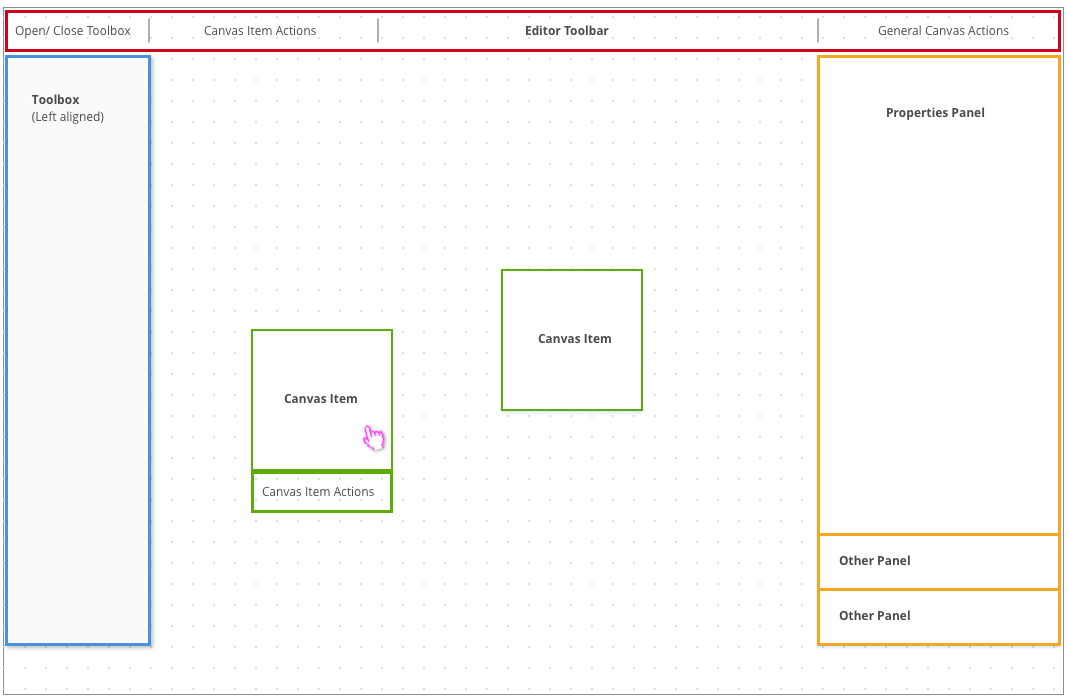
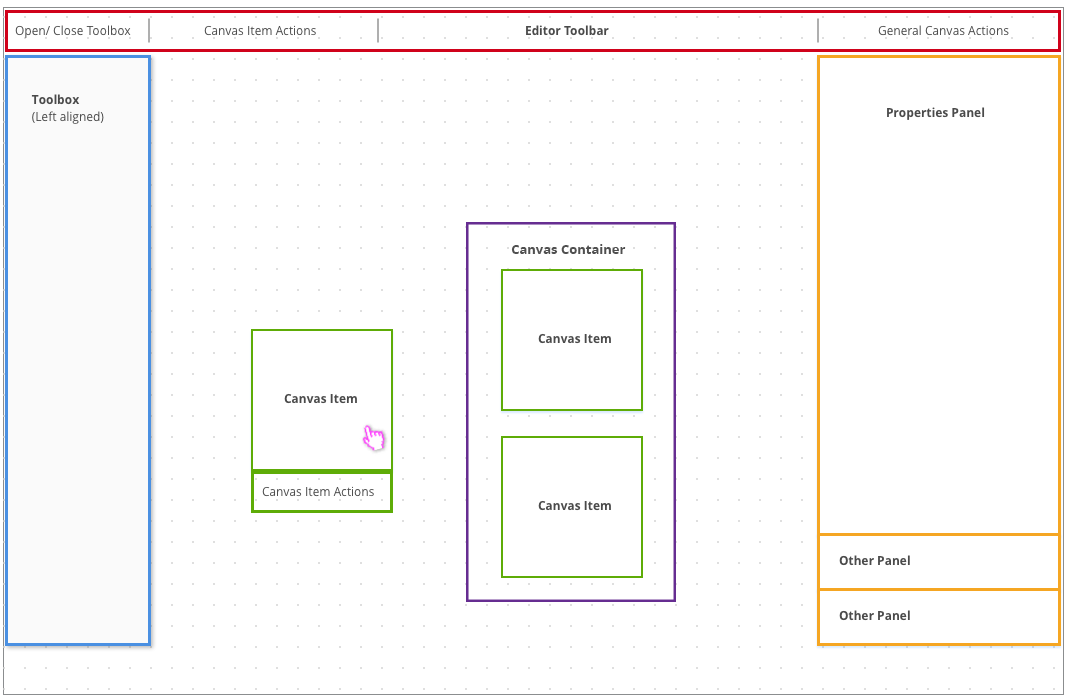
Added files from commit #2734064700304fefe0f37ea18a36ef08186b33bc

Changed region(s): [[0.4326, 0.3013, 0.618, 0.3615], [0.4326, 0.8135, 0.6489, 0.8737], [0.4944, 0.7231, 0.5871, 0.7532]]

diff --git a/components/bootstrap-datepicker/dist/js/bootstrap-datepicker.min.js b/components/bootstrap-datepicker/dist/js/bootstrap-datepicker.min.js
@@ -1,8 +1,8 @@
 /*!
- * Datepicker for Bootstrap v1.7.0 (https://github.com/uxsolutions/bootstrap-datepicker)
+ * Datepicker for Bootstrap v1.7.1 (https://github.com/uxsolutions/bootstrap-datepicker)
  *
  * Licensed under the Apache License v2.0 (http://www.apache.org/licenses/LICENSE-2.0)
  */
 
 !function(a){"function"==typeof define&&define.amd?define(["jquery"],a):a("object"==typeof exports?require("jquery"):jQuery)}(function(a,b){function c(){return new Date(Date.UTC.apply(Date,arguments))}function d(){var a=new Date;return c(a.getFullYear(),a.getMonth(),a.getDate())}function e(a,b){return a.getUTCFullYear()===b.getUTCFullYear()&&a.getUTCMonth()===b.getUTCMonth()&&a.getUTCDate()===b.getUTCDate()}function f(c,d){return function(){return d!==b&&a.fn.datepicker.deprecated(d),this[c].apply(this,arguments)}}function g(a){return a&&!isNaN(a.getTime())}function h(b,c){function d(a,b){return b.toLowerCase()}var e,f=a(b).data(),g={},h=new RegExp("^"+c.toLowerCase()+"([A-Z])");c=new RegExp("^"+c.toLowerCase());for(var i in f)c.test(i)&&(e=i.replace(h,d),g[e]=f[i]);return g}function i(b){var c={};if(q[b]||(b=b.split("-")[0],q[b])){var d=q[b];return a.each(p,function(a,b){b in d&&(c[b]=d[b])}),c}}var j=function(){var b={get:function(a){return this.slice(a)[0]},contains:function(a){for(var b=a&&a.valueOf(),c=0,d=this.length;c<d;c++)if(0<=this[c].valueOf()-b&&this[c].valueOf()-b<864e5)return c;return-1},remove:function(a){this.splice(a,1)},replace:function(b){b&&(a.isArray(b)||(b=[b]),this.clear(),this.push.apply(this,b))},clear:function(){this.length=0},copy:function(){var a=new j;return a.replace(this),a}};return function(){var c=[];return c.push.apply(c,arguments),a.extend(c,b),c}}(),k=function(b,c){a.data(b,"datepicker",this),this._process_options(c),this.dates=new j,this.viewDate=this.o.defaultViewDate,this.focusDate=null,this.element=a(b),this.isInput=this.element.is("input"),this.inputField=this.isInput?this.element:this.element.find("input"),this.component=!!this.element.hasClass("date")&&this.element.find(".add-on, .input-group-addon, .btn"),this.component&&0===this.component.length&&(this.component=!1),this.isInline=!this.component&&this.element.is("div"),this.picker=a(r.template),this._check_template(this.o.templates.leftArrow)&&this.picker.find(".prev").html(this.o.templates.leftArrow),this._check_template(this.o.templates.rightArrow)&&this.picker.find(".next").html(this.o.templates.rightArrow),this._buildEvents(),this._attachEvents(),this.isInline?this.picker.addClass("datepicker-inline").appendTo(this.element):this.picker.addClass("datepicker-dropdown dropdown-menu"),this.o.rtl&&this.picker.addClass("datepicker-rtl"),this.o.calendarWeeks&&this.picker.find(".datepicker-days .datepicker-switch, thead .datepicker-title, tfoot .today, tfoot .clear").attr("colspan",function(a,b){return Number(b)+1}),this._process_options({startDate:this._o.startDate,endDate:this._o.endDate,daysOfWeekDisabled:this.o.daysOfWeekDisabled,daysOfWeekHighlighted:this.o.daysOfWeekHighlighted,datesDisabled:this.o.datesDisabled}),this._allow_update=!1,this.setViewMode(this.o.startView),this._allow_update=!0,this.fillDow(),this.fillMonths(),this.update(),this.isInline&&this.show()};k.prototype={constructor:k,_resolveViewName:function(b){return a.each(r.viewModes,function(c,d){if(b===c||a.inArray(b,d.names)!==-1)return b=c,!1}),b},_resolveDaysOfWeek:function(b){return a.isArray(b)||(b=b.split(/[,\s]*/)),a.map(b,Number)},_check_template:function(c){try{if(c===b||""===c)return!1;if((c.match(/[<>]/g)||[]).length<=0)return!0;var d=a(c);return d.length>0}catch(a){return!1}},_process_options:function(b){this._o=a.extend({},this._o,b);var e=this.o=a.extend({},this._o),f=e.language;q[f]||(f=f.split("-")[0],q[f]||(f=o.language)),e.language=f,e.startView=this._resolveViewName(e.startView),e.minViewMode=this._resolveViewName(e.minViewMode),e.maxViewMode=this._resolveViewName(e.maxViewMode),e.startView=Math.max(this.o.minViewMode,Math.min(this.o.maxViewMode,e.startView)),e.multidate!==!0&&(e.multidate=Number(e.multidate)||!1,e.multidate!==!1&&(e.multidate=Math.max(0,e.multidate))),e.multidateSeparator=String(e.multidateSeparator),e.weekStart%=7,e.weekEnd=(e.weekStart+6)%7;var g=r.parseFormat(e.format);e.startDate!==-(1/0)&&(e.startDate?e.startDate instanceof Date?e.startDate=this._local_to_utc(this._zero_time(e.startDate)):e.startDate=r.parseDate(e.startDate,g,e.language,e.assumeNearbyYear):e.startDate=-(1/0)),e.endDate!==1/0&&(e.endDate?e.endDate instanceof Date?e.endDate=this._local_to_utc(this._zero_time(e.endDate)):e.endDate=r.parseDate(e.endDate,g,e.language,e.assumeNearbyYear):e.endDate=1/0),e.daysOfWeekDisabled=this._resolveDaysOfWeek(e.daysOfWeekDisabled||[]),e.daysOfWeekHighlighted=this._resolveDaysOfWeek(e.daysOfWeekHighlighted||[]),e.datesDisabled=e.datesDisabled||[],a.isArray(e.datesDisabled)||(e.datesDisabled=e.datesDisabled.split(",")),e.datesDisabled=a.map(e.datesDisabled,function(a){return r.parseDate(a,g,e.language,e.assumeNearbyYear)});var h=String(e.orientation).toLowerCase().split(/\s+/g),i=e.orientation.toLowerCase();if(h=a.grep(h,function(a){return/^auto|left|right|top|bottom$/.test(a)}),e.orientation={x:"auto",y:"auto"},i&&"auto"!==i)if(1===h.length)switch(h[0]){case"top":case"bottom":e.orientation.y=h[0];break;case"left":case"right":e.orientation.x=h[0]}else i=a.grep(h,function(a){return/^left|right$/.test(a)}),e.orientation.x=i[0]||"auto",i=a.grep(h,function(a){return/^top|bottom$/.test(a)}),e.orientation.y=i[0]||"auto";else;if(e.defaultViewDate instanceof Date||"string"==typeof e.defaultViewDate)e.defaultViewDate=r.parseDate(e.defaultViewDate,g,e.language,e.assumeNearbyYear);else if(e.defaultViewDate){var j=e.defaultViewDate.year||(new Date).getFullYear(),k=e.defaultViewDate.month||0,l=e.defaultViewDate.day||1;e.defaultViewDate=c(j,k,l)}else e.defaultViewDate=d()},_events:[],_secondaryEvents:[],_applyEvents:function(a){for(var c,d,e,f=0;f<a.length;f++)c=a[f][0],2===a[f].length?(d=b,e=a[f][1]):3===a[f].length&&(d=a[f][1],e=a[f][2]),c.on(e,d)},_unapplyEvents:function(a){for(var c,d,e,f=0;f<a.length;f++)c=a[f][0],2===a[f].length?(e=b,d=a[f][1]):3===a[f].length&&(e=a[f][1],d=a[f][2]),c.off(d,e)},_buildEvents:function(){var b={keyup:a.proxy(function(b){a.inArray(b.keyCode,[27,37,39,38,40,32,13,9])===-1&&this.update()},this),keydown:a.proxy(this.keydown,this),paste:a.proxy(this.paste,this)};this.o.showOnFocus===!0&&(b.focus=a.proxy(this.show,this)),this.isInput?this._events=[[this.element,b]]:this.component&&this.inputField.length?this._events=[[this.inputField,b],[this.component,{click:a.proxy(this.show,this)}]]:this._events=[[this.element,{click:a.proxy(this.show,this),keydown:a.proxy(this.keydown,this)}]],this._events.push([this.element,"*",{blur:a.proxy(function(a){this._focused_from=a.target},this)}],[this.element,{blur:a.proxy(function(a){this._focused_from=a.target},this)}]),this.o.immediateUpdates&&this._events.push([this.element,{"changeYear changeMonth":a.proxy(function(a){this.update(a.date)},this)}]),this._secondaryEvents=[[this.picker,{click:a.proxy(this.click,this)}],[this.picker,".prev, .next",{click:a.proxy(this.navArrowsClick,this)}],[this.picker,".day:not(.disabled)",{click:a.proxy(this.dayCellClick,this)}],[a(window),{resize:a.proxy(this.place,this)}],[a(document),{"mousedown touchstart":a.proxy(function(a){this.element.is(a.target)||this.element.find(a.target).length||this.picker.is(a.target)||this.picker.find(a.target).length||this.isInline||this.hide()},this)}]]},_attachEvents:function(){this._detachEvents(),this._applyEvents(this._events)},_detachEvents:function(){this._unapplyEvents(this._events)},_attachSecondaryEvents:function(){this._detachSecondaryEvents(),this._applyEvents(this._secondaryEvents)},_detachSecondaryEvents:function(){this._unapplyEvents(this._secondaryEvents)},_trigger:function(b,c){var d=c||this.dates.get(-1),e=this._utc_to_local(d);this.element.trigger({type:b,date:e,viewMode:this.viewMode,dates:a.map(this.dates,this._utc_to_local),format:a.proxy(function(a,b){0===arguments.length?(a=this.dates.length-1,b=this.o.format):"string"==typeof a&&(b=a,a=this.dates.length-1),b=b||this.o.format;var c=this.dates.get(a);return r.formatDate(c,b,this.o.language)},this)})},show:function(){if(!(this.inputField.prop("disabled")||this.inputField.prop("readonly")&&this.o.enableOnReadonly===!1))return this.isInline||this.picker.appendTo(this.o.container),this.place(),this.picker.show(),this._attachSecondaryEvents(),this._trigger("show"),(window.navigator.msMaxTouchPoints||"ontouchstart"in document)&&this.o.disableTouchKeyboard&&a(this.element).blur(),this},hide:function(){return this.isInline||!this.picker.is(":visible")?this:(this.focusDate=null,this.picker.hide().detach(),this._detachSecondaryEvents(),this.setViewMode(this.o.startView),this.o.forceParse&&this.inputField.val()&&this.setValue(),this._trigger("hide"),this)},destroy:function(){return this.hide(),this._detachEvents(),this._detachSecondaryEvents(),this.picker.remove(),delete this.element.data().datepicker,this.isInput||delete this.element.data().date,this},paste:function(b){var c;if(b.originalEvent.clipboardData&&b.originalEvent.clipboardData.types&&a.inArray("text/plain",b.originalEvent.clipboardData.types)!==-1)c=b.originalEvent.clipboardData.getData("text/plain");else{if(!window.clipboardData)return;c=window.clipboardData.getData("Text")}this.setDate(c),this.update(),b.preventDefault()},_utc_to_local:function(a){if(!a)return a;var b=new Date(a.getTime()+6e4*a.getTimezoneOffset());return b.getTimezoneOffset()!==a.getTimezoneOffset()&&(b=new Date(a.getTime()+6e4*b.getTimezoneOffset())),b},_local_to_utc:function(a){return a&&new Date(a.getTime()-6e4*a.getTimezoneOffset())},_zero_time:function(a){return a&&new Date(a.getFullYear(),a.getMonth(),a.getDate())},_zero_utc_time:function(a){return a&&c(a.getUTCFullYear(),a.getUTCMonth(),a.getUTCDate())},getDates:function(){return a.map(this.dates,this._utc_to_local)},getUTCDates:function(){return a.map(this.dates,function(a){return new Date(a)})},getDate:function(){return this._utc_to_local(this.getUTCDate())},getUTCDate:function(){var a=this.dates.get(-1);return a!==b?new Date(a):null},clearDates:function(){this.inputField.val(""),this.update(),this._trigger("changeDate"),this.o.autoclose&&this.hide()},setDates:function(){var b=a.isArray(arguments[0])?arguments[0]:arguments;return this.update.apply(this,b),this._trigger("changeDate"),this.setValue(),this},setUTCDates:function(){var b=a.isArray(arguments[0])?arguments[0]:arguments;return this.setDates.apply(this,a.map(b,this._utc_to_local)),this},setDate:f("setDates"),setUTCDate:f("setUTCDates"),remove:f("destroy","Method `remove` is deprecated and will be removed in version 2.0. Use `destroy` instead"),setValue:function(){var a=this.getFormattedDate();return this.inputField.val(a),this},getFormattedDate:function(c){c===b&&(c=this.o.format);var d=this.o.language;return a.map(this.dates,function(a){return r.formatDate(a,c,d)}).join(this.o.multidateSeparator)},getStartDate:function(){return this.o.startDate},setStartDate:function(a){return this._process_options({startDate:a}),this.update(),this.updateNavArrows(),this},getEndDate:function(){return this.o.endDate},setEndDate:function(a){return this._process_options({endDate:a}),this.update(),this.updateNavArrows(),this},setDaysOfWeekDisabled:function(a){return this._process_options({daysOfWeekDisabled:a}),this.update(),this},setDaysOfWeekHighlighted:function(a){return this._process_options({daysOfWeekHighlighted:a}),this.update(),this},setDatesDisabled:function(a){return this._process_options({datesDisabled:a}),this.update(),this},place:function(){if(this.isInline)return this;var b=this.picker.outerWidth(),c=this.picker.outerHeight(),d=10,e=a(this.o.container),f=e.width(),g="body"===this.o.container?a(document).scrollTop():e.scrollTop(),h=e.offset(),i=[0];this.element.parents().each(function(){var b=a(this).css("z-index");"auto"!==b&&0!==Number(b)&&i.push(Number(b))});var j=Math.max.apply(Math,i)+this.o.zIndexOffset,k=this.component?this.component.parent().offset():this.element.offset(),l=this.component?this.component.outerHeight(!0):this.element.outerHeight(!1),m=this.component?this.component.outerWidth(!0):this.element.outerWidth(!1),n=k.left-h.left,o=k.top-h.top;"body"!==this.o.container&&(o+=g),this.picker.removeClass("datepicker-orient-top datepicker-orient-bottom datepicker-orient-right datepicker-orient-left"),"auto"!==this.o.orientation.x?(this.picker.addClass("datepicker-orient-"+this.o.orientation.x),"right"===this.o.orientation.x&&(n-=b-m)):k.left<0?(this.picker.addClass("datepicker-orient-left"),n-=k.left-d):n+b>f?(this.picker.addClass("datepicker-orient-right"),n+=m-b):this.o.rtl?this.picker.addClass("datepicker-orient-right"):this.picker.addClass("datepicker-orient-left");var p,q=this.o.orientation.y;if("auto"===q&&(p=-g+o-c,q=p<0?"bottom":"top"),this.picker.addClass("datepicker-orient-"+q),"top"===q?o-=c+parseInt(this.picker.css("padding-top")):o+=l,this.o.rtl){var r=f-(n+m);this.picker.css({top:o,right:r,zIndex:j})}else this.picker.css({top:o,left:n,zIndex:j});return this},_allow_update:!0,update:function(){if(!this._allow_update)return this;var b=this.dates.copy(),c=[],d=!1;return arguments.length?(a.each(arguments,a.proxy(function(a,b){b instanceof Date&&(b=this._local_to_utc(b)),c.push(b)},this)),d=!0):(c=this.isInput?this.element.val():this.element.data("date")||this.inputField.val(),c=c&&this.o.multidate?c.split(this.o.multidateSeparator):[c],delete this.element.data().date),c=a.map(c,a.proxy(function(a){return r.parseDate(a,this.o.format,this.o.language,this.o.assumeNearbyYear)},this)),c=a.grep(c,a.proxy(function(a){return!this.dateWithinRange(a)||!a},this),!0),this.dates.replace(c),this.o.updateViewDate&&(this.dates.length?this.viewDate=new Date(this.dates.get(-1)):this.viewDate<this.o.startDate?this.viewDate=new Date(this.o.startDate):this.viewDate>this.o.endDate?this.viewDate=new Date(this.o.endDate):this.viewDate=this.o.defaultViewDate),d?(this.setValue(),this.element.change()):this.dates.length&&String(b)!==String(this.dates)&&d&&(this._trigger("changeDate"),this.element.change()),!this.dates.length&&b.length&&(this._trigger("clearDate"),this.element.change()),this.fill(),this},fillDow:function(){if(this.o.showWeekDays){var b=this.o.weekStart,c="<tr>";for(this.o.calendarWeeks&&(c+='<th class="cw">&#160;</th>');b<this.o.weekStart+7;)c+='<th class="dow',a.inArray(b,this.o.daysOfWeekDisabled)!==-1&&(c+=" disabled"),c+='">'+q[this.o.language].daysMin[b++%7]+"</th>";c+="</tr>",this.picker.find(".datepicker-days thead").append(c)}},fillMonths:function(){for(var a,b=this._utc_to_local(this.viewDate),c="",d=0;d<12;d++)a=b&&b.getMonth()===d?" focused":"",c+='<span class="month'+a+'">'+q[this.o.language].monthsShort[d]+"</span>";this.picker.find(".datepicker-months td").html(c)},setRange:function(b){b&&b.length?this.range=a.map(b,function(a){return a.valueOf()}):delete this.range,this.fill()},getClassNames:function(b){var c=[],f=this.viewDate.getUTCFullYear(),g=this.viewDate.getUTCMonth(),h=d();return b.getUTCFullYear()<f||b.getUTCFullYear()===f&&b.getUTCMonth()<g?c.push("old"):(b.getUTCFullYear()>f||b.getUTCFullYear()===f&&b.getUTCMonth()>g)&&c.push("new"),this.focusDate&&b.valueOf()===this.focusDate.valueOf()&&c.push("focused"),this.o.todayHighlight&&e(b,h)&&c.push("today"),this.dates.contains(b)!==-1&&c.push("active"),this.dateWithinRange(b)||c.push("disabled"),this.dateIsDisabled(b)&&c.push("disabled","disabled-date"),a.inArray(b.getUTCDay(),this.o.daysOfWeekHighlighted)!==-1&&c.push("highlighted"),this.range&&(b>this.range[0]&&b<this.range[this.range.length-1]&&c.push("range"),a.inArray(b.valueOf(),this.range)!==-1&&c.push("selected"),b.valueOf()===this.range[0]&&c.push("range-start"),b.valueOf()===this.range[this.range.length-1]&&c.push("range-end")),c},_fill_yearsView:function(c,d,e,f,g,h,i){for(var j,k,l,m="",n=e/10,o=this.picker.find(c),p=Math.floor(f/e)*e,q=p+9*n,r=Math.floor(this.viewDate.getFullYear()/n)*n,s=a.map(this.dates,function(a){return Math.floor(a.getUTCFullYear()/n)*n}),t=p-n;t<=q+n;t+=n)j=[d],k=null,t===p-n?j.push("old"):t===q+n&&j.push("new"),a.inArray(t,s)!==-1&&j.push("active"),(t<g||t>h)&&j.push("disabled"),t===r&&j.push("focused"),i!==a.noop&&(l=i(new Date(t,0,1)),l===b?l={}:"boolean"==typeof l?l={enabled:l}:"string"==typeof l&&(l={classes:l}),l.enabled===!1&&j.push("disabled"),l.classes&&(j=j.concat(l.classes.split(/\s+/))),l.tooltip&&(k=l.tooltip)),m+='<span class="'+j.join(" ")+'"'+(k?' title="'+k+'"':"")+">"+t+"</span>";o.find(".datepicker-switch").text(p+"-"+q),o.find("td").html(m)},fill:function(){var d,e,f=new Date(this.viewDate),g=f.getUTCFullYear(),h=f.getUTCMonth(),i=this.o.startDate!==-(1/0)?this.o.startDate.getUTCFullYear():-(1/0),j=this.o.startDate!==-(1/0)?this.o.startDate.getUTCMonth():-(1/0),k=this.o.endDate!==1/0?this.o.endDate.getUTCFullYear():1/0,l=this.o.endDate!==1/0?this.o.endDate.getUTCMonth():1/0,m=q[this.o.language].today||q.en.today||"",n=q[this.o.language].clear||q.en.clear||"",o=q[this.o.language].titleFormat||q.en.titleFormat;if(!isNaN(g)&&!isNaN(h)){this.picker.find(".datepicker-days .datepicker-switch").text(r.formatDate(f,o,this.o.language)),this.picker.find("tfoot .today").text(m).css("display",this.o.todayBtn===!0||"linked"===this.o.todayBtn?"table-cell":"none"),this.picker.find("tfoot .clear").text(n).css("display",this.o.clearBtn===!0?"table-cell":"none"),this.picker.find("thead .datepicker-title").text(this.o.title).css("display","string"==typeof this.o.title&&""!==this.o.title?"table-cell":"none"),this.updateNavArrows(),this.fillMonths();var p=c(g,h,0),s=p.getUTCDate();p.setUTCDate(s-(p.getUTCDay()-this.o.weekStart+7)%7);var t=new Date(p);p.getUTCFullYear()<100&&t.setUTCFullYear(p.getUTCFullYear()),t.setUTCDate(t.getUTCDate()+42),t=t.valueOf();for(var u,v,w=[];p.valueOf()<t;){if(u=p.getUTCDay(),u===this.o.weekStart&&(w.push("<tr>"),this.o.calendarWeeks)){var x=new Date(+p+(this.o.weekStart-u-7)%7*864e5),y=new Date(Number(x)+(11-x.getUTCDay())%7*864e5),z=new Date(Number(z=c(y.getUTCFullYear(),0,1))+(11-z.getUTCDay())%7*864e5),A=(y-z)/864e5/7+1;w.push('<td class="cw">'+A+"</td>")}v=this.getClassNames(p),v.push("day");var B=p.getUTCDate();this.o.beforeShowDay!==a.noop&&(e=this.o.beforeShowDay(this._utc_to_local(p)),e===b?e={}:"boolean"==typeof e?e={enabled:e}:"string"==typeof e&&(e={classes:e}),e.enabled===!1&&v.push("disabled"),e.classes&&(v=v.concat(e.classes.split(/\s+/))),e.tooltip&&(d=e.tooltip),e.content&&(B=e.content)),v=a.isFunction(a.uniqueSort)?a.uniqueSort(v):a.unique(v),w.push('<td class="'+v.join(" ")+'"'+(d?' title="'+d+'"':"")+' data-date="'+p.getTime().toString()+'">'+B+"</td>"),d=null,u===this.o.weekEnd&&w.push("</tr>"),p.setUTCDate(p.getUTCDate()+1)}this.picker.find(".datepicker-days tbody").html(w.join(""));var C=q[this.o.language].monthsTitle||q.en.monthsTitle||"Months",D=this.picker.find(".datepicker-months").find(".datepicker-switch").text(this.o.maxViewMode<2?C:g).end().find("tbody span").removeClass("active");if(a.each(this.dates,function(a,b){b.getUTCFullYear()===g&&D.eq(b.getUTCMonth()).addClass("active")}),(g<i||g>k)&&D.addClass("disabled"),g===i&&D.slice(0,j).addClass("disabled"),g===k&&D.slice(l+1).addClass("disabled"),this.o.beforeShowMonth!==a.noop){var E=this;a.each(D,function(c,d){var e=new Date(g,c,1),f=E.o.beforeShowMonth(e);f===b?f={}:"boolean"==typeof f?f={enabled:f}:"string"==typeof f&&(f={classes:f}),f.enabled!==!1||a(d).hasClass("disabled")||a(d).addClass("disabled"),f.classes&&a(d).addClass(f.classes),f.tooltip&&a(d).prop("title",f.tooltip)})}this._fill_yearsView(".datepicker-years","year",10,g,i,k,this.o.beforeShowYear),this._fill_yearsView(".datepicker-decades","decade",100,g,i,k,this.o.beforeShowDecade),this._fill_yearsView(".datepicker-centuries","century",1e3,g,i,k,this.o.beforeShowCentury)}},updateNavArrows:function(){if(this._allow_update){var a,b,c=new Date(this.viewDate),d=c.getUTCFullYear(),e=c.getUTCMonth(),f=this.o.startDate!==-(1/0)?this.o.startDate.getUTCFullYear():-(1/0),g=this.o.startDate!==-(1/0)?this.o.startDate.getUTCMonth():-(1/0),h=this.o.endDate!==1/0?this.o.endDate.getUTCFullYear():1/0,i=this.o.endDate!==1/0?this.o.endDate.getUTCMonth():1/0,j=1;switch(this.viewMode){case 0:a=d<=f&&e<=g,b=d>=h&&e>=i;break;case 4:j*=10;case 3:j*=10;case 2:j*=10;case 1:a=Math.floor(d/j)*j<=f,b=Math.floor(d/j)*j+j>=h}this.picker.find(".prev").toggleClass("disabled",a),this.picker.find(".next").toggleClass("disabled",b)}},click:function(b){b.preventDefault(),b.stopPropagation();var e,f,g,h;e=a(b.target),e.hasClass("datepicker-switch")&&this.viewMode!==this.o.maxViewMode&&this.setViewMode(this.viewMode+1),e.hasClass("today")&&!e.hasClass("day")&&(this.setViewMode(0),this._setDate(d(),"linked"===this.o.todayBtn?null:"view")),e.hasClass("clear")&&this.clearDates(),e.hasClass("disabled")||(e.hasClass("month")||e.hasClass("year")||e.hasClass("decade")||e.hasClass("century"))&&(this.viewDate.setUTCDate(1),f=1,1===this.viewMode?(h=e.parent().find("span").index(e),g=this.viewDate.getUTCFullYear(),this.viewDate.setUTCMonth(h)):(h=0,g=Number(e.text()),this.viewDate.setUTCFullYear(g)),this._trigger(r.viewModes[this.viewMode-1].e,this.viewDate),this.viewMode===this.o.minViewMode?this._setDate(c(g,h,f)):(this.setViewMode(this.viewMode-1),this.fill())),this.picker.is(":visible")&&this._focused_from&&this._focused_from.focus(),delete this._focused_from},dayCellClick:function(b){var c=a(b.currentTarget),d=c.data("date"),e=new Date(d);this.o.updateViewDate&&(e.getUTCFullYear()!==this.viewDate.getUTCFullYear()&&this._trigger("changeYear",this.viewDate),e.getUTCMonth()!==this.viewDate.getUTCMonth()&&this._trigger("changeMonth",this.viewDate)),this._setDate(e)},navArrowsClick:function(b){var c=a(b.currentTarget),d=c.hasClass("prev")?-1:1;0!==this.viewMode&&(d*=12*r.viewModes[this.viewMode].navStep),this.viewDate=this.moveMonth(this.viewDate,d),this._trigger(r.viewModes[this.viewMode].e,this.viewDate),this.fill()},_toggle_multidate:function(a){var b=this.dates.contains(a);if(a||this.dates.clear(),b!==-1?(this.o.multidate===!0||this.o.multidate>1||this.o.toggleActive)&&this.dates.remove(b):this.o.multidate===!1?(this.dates.clear(),this.dates.push(a)):this.dates.push(a),"number"==typeof this.o.multidate)for(;this.dates.length>this.o.multidate;)this.dates.remove(0)},_setDate:function(a,b){b&&"date"!==b||this._toggle_multidate(a&&new Date(a)),(!b&&this.o.updateViewDate||"view"===b)&&(this.viewDate=a&&new Date(a)),this.fill(),this.setValue(),b&&"view"===b||this._trigger("changeDate"),this.inputField.trigger("change"),!this.o.autoclose||b&&"date"!==b||this.hide()},moveDay:function(a,b){var c=new Date(a);return c.setUTCDate(a.getUTCDate()+b),c},moveWeek:function(a,b){return this.moveDay(a,7*b)},moveMonth:function(a,b){if(!g(a))return this.o.defaultViewDate;if(!b)return a;var c,d,e=new Date(a.valueOf()),f=e.getUTCDate(),h=e.getUTCMonth(),i=Math.abs(b);if(b=b>0?1:-1,1===i)d=b===-1?function(){return e.getUTCMonth()===h}:function(){return e.getUTCMonth()!==c},c=h+b,e.setUTCMonth(c),c=(c+12)%12;else{for(var j=0;j<i;j++)e=this.moveMonth(e,b);c=e.getUTCMonth(),e.setUTCDate(f),d=function(){return c!==e.getUTCMonth()}}for(;d();)e.setUTCDate(--f),e.setUTCMonth(c);return e},moveYear:function(a,b){return this.moveMonth(a,12*b)},moveAvailableDate:function(a,b,c){do{if(a=this[c](a,b),!this.dateWithinRange(a))return!1;c="moveDay"}while(this.dateIsDisabled(a));return a},weekOfDateIsDisabled:function(b){return a.inArray(b.getUTCDay(),this.o.daysOfWeekDisabled)!==-1},dateIsDisabled:function(b){return this.weekOfDateIsDisabled(b)||a.grep(this.o.datesDisabled,function(a){return e(b,a)}).length>0},dateWithinRange:function(a){return a>=this.o.startDate&&a<=this.o.endDate},keydown:function(a){if(!this.picker.is(":visible"))return void(40!==a.keyCode&&27!==a.keyCode||(this.show(),a.stopPropagation()));var b,c,d=!1,e=this.focusDate||this.viewDate;switch(a.keyCode){case 27:this.focusDate?(this.focusDate=null,this.viewDate=this.dates.get(-1)||this.viewDate,this.fill()):this.hide(),a.preventDefault(),a.stopPropagation();break;case 37:case 38:case 39:case 40:if(!this.o.keyboardNavigation||7===this.o.daysOfWeekDisabled.length)break;b=37===a.keyCode||38===a.keyCode?-1:1,0===this.viewMode?a.ctrlKey?(c=this.moveAvailableDate(e,b,"moveYear"),c&&this._trigger("changeYear",this.viewDate)):a.shiftKey?(c=this.moveAvailableDate(e,b,"moveMonth"),c&&this._trigger("changeMonth",this.viewDate)):37===a.keyCode||39===a.keyCode?c=this.moveAvailableDate(e,b,"moveDay"):this.weekOfDateIsDisabled(e)||(c=this.moveAvailableDate(e,b,"moveWeek")):1===this.viewMode?(38!==a.keyCode&&40!==a.keyCode||(b*=4),c=this.moveAvailableDate(e,b,"moveMonth")):2===this.viewMode&&(38!==a.keyCode&&40!==a.keyCode||(b*=4),c=this.moveAvailableDate(e,b,"moveYear")),c&&(this.focusDate=this.viewDate=c,this.setValue(),this.fill(),a.preventDefault());break;case 13:if(!this.o.forceParse)break;e=this.focusDate||this.dates.get(-1)||this.viewDate,this.o.keyboardNavigation&&(this._toggle_multidate(e),d=!0),this.focusDate=null,this.viewDate=this.dates.get(-1)||this.viewDate,this.setValue(),this.fill(),this.picker.is(":visible")&&(a.preventDefault(),a.stopPropagation(),this.o.autoclose&&this.hide());break;case 9:this.focusDate=null,this.viewDate=this.dates.get(-1)||this.viewDate,this.fill(),this.hide()}d&&(this.dates.length?this._trigger("changeDate"):this._trigger("clearDate"),this.inputField.trigger("change"))},setViewMode:function(a){this.viewMode=a,this.picker.children("div").hide().filter(".datepicker-"+r.viewModes[this.viewMode].clsName).show(),this.updateNavArrows(),this._trigger("changeViewMode",new Date(this.viewDate))}};var l=function(b,c){a.data(b,"datepicker",this),this.element=a(b),this.inputs=a.map(c.inputs,function(a){return a.jquery?a[0]:a}),delete c.inputs,this.keepEmptyValues=c.keepEmptyValues,delete c.keepEmptyValues,n.call(a(this.inputs),c).on("changeDate",a.proxy(this.dateUpdated,this)),this.pickers=a.map(this.inputs,function(b){return a.data(b,"datepicker")}),this.updateDates()};l.prototype={updateDates:function(){this.dates=a.map(this.pickers,function(a){return a.getUTCDate()}),this.updateRanges()},updateRanges:function(){var b=a.map(this.dates,function(a){return a.valueOf()});a.each(this.pickers,function(a,c){c.setRange(b)})},dateUpdated:function(c){if(!this.updating){this.updating=!0;var d=a.data(c.target,"datepicker");if(d!==b){var e=d.getUTCDate(),f=this.keepEmptyValues,g=a.inArray(c.target,this.inputs),h=g-1,i=g+1,j=this.inputs.length;if(g!==-1){if(a.each(this.pickers,function(a,b){b.getUTCDate()||b!==d&&f||b.setUTCDate(e)}),e<this.dates[h])for(;h>=0&&e<this.dates[h];)this.pickers[h--].setUTCDate(e);else if(e>this.dates[i])for(;i<j&&e>this.dates[i];)this.pickers[i++].setUTCDate(e);this.updateDates(),delete this.updating}}}},destroy:function(){a.map(this.pickers,function(a){a.destroy()}),a(this.inputs).off("changeDate",this.dateUpdated),delete this.element.data().datepicker},remove:f("destroy","Method `remove` is deprecated and will be removed in version 2.0. Use `destroy` instead")};var m=a.fn.datepicker,n=function(c){var d=Array.apply(null,arguments);d.shift();var e;if(this.each(function(){var b=a(this),f=b.data("datepicker"),g="object"==typeof c&&c;if(!f){var j=h(this,"date"),m=a.extend({},o,j,g),n=i(m.language),p=a.extend({},o,n,j,g);b.hasClass("input-daterange")||p.inputs?(a.extend(p,{inputs:p.inputs||b.find("input").toArray()}),f=new l(this,p)):f=new k(this,p),b.data("datepicker",f)}"string"==typeof c&&"function"==typeof f[c]&&(e=f[c].apply(f,d))}),e===b||e instanceof k||e instanceof l)return this;if(this.length>1)throw new Error("Using only allowed for the collection of a single element ("+c+" function)");return e};a.fn.datepicker=n;var o=a.fn.datepicker.defaults={assumeNearbyYear:!1,autoclose:!1,beforeShowDay:a.noop,beforeShowMonth:a.noop,beforeShowYear:a.noop,beforeShowDecade:a.noop,beforeShowCentury:a.noop,calendarWeeks:!1,clearBtn:!1,toggleActive:!1,daysOfWeekDisabled:[],daysOfWeekHighlighted:[],datesDisabled:[],endDate:1/0,forceParse:!0,format:"mm/dd/yyyy",keepEmptyValues:!1,keyboardNavigation:!0,language:"en",minViewMode:0,maxViewMode:4,multidate:!1,multidateSeparator:",",orientation:"auto",rtl:!1,startDate:-(1/0),startView:0,todayBtn:!1,todayHighlight:!1,updateViewDate:!0,weekStart:0,disableTouchKeyboard:!1,enableOnReadonly:!0,showOnFocus:!0,zIndexOffset:10,container:"body",immediateUpdates:!1,title:"",templates:{leftArrow:"&#x00AB;",rightArrow:"&#x00BB;"},showWeekDays:!0},p=a.fn.datepicker.locale_opts=["format","rtl","weekStart"];a.fn.datepicker.Constructor=k;var q=a.fn.datepicker.dates={en:{days:["Sunday","Monday","Tuesday","Wednesday","Thursday","Friday","Saturday"],daysShort:["Sun","Mon","Tue","Wed","Thu","Fri","Sat"],daysMin:["Su","Mo","Tu","We","Th","Fr","Sa"],months:["January","February","March","April","May","June","July","August","September","October","November","December"],monthsShort:["Jan","Feb","Mar","Apr","May","Jun","Jul","Aug","Sep","Oct","Nov","Dec"],today:"Today",clear:"Clear",titleFormat:"MM yyyy"}},r={viewModes:[{names:["days","month"],clsName:"days",e:"changeMonth"},{names:["months","year"],clsName:"months",e:"changeYear",navStep:1},{names:["years","decade"],clsName:"years",e:"changeDecade",navStep:10},{names:["decades","century"],clsName:"decades",e:"changeCentury",navStep:100},{names:["centuries","millennium"],clsName:"centuries",e:"changeMillennium",navStep:1e3}],validParts:/dd?|DD?|mm?|MM?|yy(?:yy)?/g,nonpunctuation:/[^ -\/:-@\u5e74\u6708\u65e5\[-`{-~\t\n\r]+/g,parseFormat:function(a){if("function"==typeof a.toValue&&"function"==typeof a.toDisplay)return a;var b=a.replace(this.validParts,"\0").split("\0"),c=a.match(this.validParts);if(!b||!b.length||!c||0===c.length)throw new Error("Invalid date format.");return{separators:b,parts:c}},parseDate:function(c,e,f,g){function h(a,b){return b===!0&&(b=10),a<100&&(a+=2e3,a>(new Date).getFullYear()+b&&(a-=100)),a}function i(){var a=this.slice(0,j[n].length),b=j[n].slice(0,a.length);return a.toLowerCase()===b.toLowerCase()}if(!c)return b;if(c instanceof Date)return c;if("string"==typeof e&&(e=r.parseFormat(e)),e.toValue)return e.toValue(c,e,f);var j,l,m,n,o,p={d:"moveDay",m:"moveMonth",w:"moveWeek",y:"moveYear"},s={yesterday:"-1d",today:"+0d",tomorrow:"+1d"};if(c in s&&(c=s[c]),/^[\-+]\d+[dmwy]([\s,]+[\-+]\d+[dmwy])*$/i.test(c)){for(j=c.match(/([\-+]\d+)([dmwy])/gi),c=new Date,n=0;n<j.length;n++)l=j[n].match(/([\-+]\d+)([dmwy])/i),m=Number(l[1]),o=p[l[2].toLowerCase()],c=k.prototype[o](c,m);return k.prototype._zero_utc_time(c)}j=c&&c.match(this.nonpunctuation)||[];var t,u,v={},w=["yyyy","yy","M","MM","m","mm","d","dd"],x={yyyy:function(a,b){return a.setUTCFullYear(g?h(b,g):b)},m:function(a,b){if(isNaN(a))return a;for(b-=1;b<0;)b+=12;for(b%=12,a.setUTCMonth(b);a.getUTCMonth()!==b;)a.setUTCDate(a.getUTCDate()-1);return a},d:function(a,b){return a.setUTCDate(b)}};x.yy=x.yyyy,x.M=x.MM=x.mm=x.m,x.dd=x.d,c=d();var y=e.parts.slice();if(j.length!==y.length&&(y=a(y).filter(function(b,c){return a.inArray(c,w)!==-1}).toArray()),j.length===y.length){var z;for(n=0,z=y.length;n<z;n++){if(t=parseInt(j[n],10),l=y[n],isNaN(t))switch(l){case"MM":u=a(q[f].months).filter(i),t=a.inArray(u[0],q[f].months)+1;break;case"M":u=a(q[f].monthsShort).filter(i),t=a.inArray(u[0],q[f].monthsShort)+1}v[l]=t}var A,B;for(n=0;n<w.length;n++)B=w[n],B in v&&!isNaN(v[B])&&(A=new Date(c),x[B](A,v[B]),isNaN(A)||(c=A))}return c},formatDate:function(b,c,d){if(!b)return"";if("string"==typeof c&&(c=r.parseFormat(c)),c.toDisplay)return c.toDisplay(b,c,d);var e={d:b.getUTCDate(),D:q[d].daysShort[b.getUTCDay()],DD:q[d].days[b.getUTCDay()],m:b.getUTCMonth()+1,M:q[d].monthsShort[b.getUTCMonth()],MM:q[d].months[b.getUTCMonth()],yy:b.getUTCFullYear().toString().substring(2),yyyy:b.getUTCFullYear()};e.dd=(e.d<10?"0":"")+e.d,e.mm=(e.m<10?"0":"")+e.m,b=[];for(var f=a.extend([],c.separators),g=0,h=c.parts.length;g<=h;g++)f.length&&b.push(f.shift()),b.push(e[c.parts[g]]);return b.join("")},headTemplate:'<thead><tr><th colspan="7" class="datepicker-title"></th></tr><tr><th class="prev">'+o.templates.leftArrow+'</th><th colspan="5" class="datepicker-switch"></th><th class="next">'+o.templates.rightArrow+"</th></tr></thead>",
-contTemplate:'<tbody><tr><td colspan="7"></td></tr></tbody>',footTemplate:'<tfoot><tr><th colspan="7" class="today"></th></tr><tr><th colspan="7" class="clear"></th></tr></tfoot>'};r.template='<div class="datepicker"><div class="datepicker-days"><table class="table-condensed">'+r.headTemplate+"<tbody></tbody>"+r.footTemplate+'</table></div><div class="datepicker-months"><table class="table-condensed">'+r.headTemplate+r.contTemplate+r.footTemplate+'</table></div><div class="datepicker-years"><table class="table-condensed">'+r.headTemplate+r.contTemplate+r.footTemplate+'</table></div><div class="datepicker-decades"><table class="table-condensed">'+r.headTemplate+r.contTemplate+r.footTemplate+'</table></div><div class="datepicker-centuries"><table class="table-condensed">'+r.headTemplate+r.contTemplate+r.footTemplate+"</table></div></div>",a.fn.datepicker.DPGlobal=r,a.fn.datepicker.noConflict=function(){return a.fn.datepicker=m,this},a.fn.datepicker.version="1.7.0",a.fn.datepicker.deprecated=function(a){var b=window.console;b&&b.warn&&b.warn("DEPRECATED: "+a)},a(document).on("focus.datepicker.data-api click.datepicker.data-api",'[data-provide="datepicker"]',function(b){var c=a(this);c.data("datepicker")||(b.preventDefault(),n.call(c,"show"))}),a(function(){n.call(a('[data-provide="datepicker-inline"]'))})});
+contTemplate:'<tbody><tr><td colspan="7"></td></tr></tbody>',footTemplate:'<tfoot><tr><th colspan="7" class="today"></th></tr><tr><th colspan="7" class="clear"></th></tr></tfoot>'};r.template='<div class="datepicker"><div class="datepicker-days"><table class="table-condensed">'+r.headTemplate+"<tbody></tbody>"+r.footTemplate+'</table></div><div class="datepicker-months"><table class="table-condensed">'+r.headTemplate+r.contTemplate+r.footTemplate+'</table></div><div class="datepicker-years"><table class="table-condensed">'+r.headTemplate+r.contTemplate+r.footTemplate+'</table></div><div class="datepicker-decades"><table class="table-condensed">'+r.headTemplate+r.contTemplate+r.footTemplate+'</table></div><div class="datepicker-centuries"><table class="table-condensed">'+r.headTemplate+r.contTemplate+r.footTemplate+"</table></div></div>",a.fn.datepicker.DPGlobal=r,a.fn.datepicker.noConflict=function(){return a.fn.datepicker=m,this},a.fn.datepicker.version="1.7.1",a.fn.datepicker.deprecated=function(a){var b=window.console;b&&b.warn&&b.warn("DEPRECATED: "+a)},a(document).on("focus.datepicker.data-api click.datepicker.data-api",'[data-provide="datepicker"]',function(b){var c=a(this);c.data("datepicker")||(b.preventDefault(),n.call(c,"show"))}),a(function(){n.call(a('[data-provide="datepicker-inline"]'))})});

diff --git a/pattern-library/content-views/canvas-view/index.html b/pattern-library/content-views/canvas-view/index.html
@@ -585,6 +585,8 @@
 <p>The Canvas View allows users to create and edit content on a canvas. The editable area, or canvas, is positioned in the center of the page, while all corresponding panels and toolbars surround the canvas. Users can drag items from the toolbox, onto the canvas and arrange the items as needed.
 Follow the <a href="/pattern-library/forms-and-controls/drag-and-drop/">Drag and Drop</a> framework for specifics on the interaction.</p>
 
+<p>The canvas can be viewed as a single receptacle onto which toolbox items can be dragged anywhere. Or, in some cases, there may be container objects on the canvas into which toolbox items can be dragged.</p>
+
 <p>In some cases items on the canvas can be ordered or connected to represent a particular flow or interaction. All tools associated with the items can be found above the canvas in the Editor Toolbar.</p>
 
 <h2 id="layout">Layout</h2>
@@ -653,6 +655,24 @@ Follow the <a href="/pattern-library/forms-and-controls/drag-and-drop/">Drag and
   <li>When the canvas is not zoomed out all the way, hovering over the canvas background will change the mouse pointer to “cursor:all-scroll”.</li>
   <li>When it is zoomed out all the way, the cursor property will be set to “cursor: default”.</li>
 </ul>
+
+<h2 id="canvas-containers">Canvas Containers</h2>
+<p>Containers are optional elements that contain, or nest, certain toolbox elements. They are not toolbox elements themselves and have their own properties.</p>
+
+<p><img src="img/Canvas-07.png" alt="Canvas Layout" /></p>
+<ol>
+  <li><strong>Containers:</strong>
+    <ul>
+      <li>When a user clicks on a container, the selected state is visually indicated.</li>
+      <li>When a container is selected, container actions are shown on the Editor Toolbar.</li>
+      <li>For cases where multiple actions are available, a contextual menu of container actions is recommended on hover.</li>
+      <li>Like canvas items, containers can be ordered or connected to represent a particular flow of information.</li>
+    </ul>
+  </li>
+  <li><strong>Background Disabled:</strong> Some toolbox elements can only be added to containers. When such elements are selected in the toolbox, the canvas area outside of the containers is disabled so that items cannot be dropped into this area. The disabled area is indicated visually by graying out the canvas.</li>
+  <li><strong>Adding Containers:</strong> A control is placed on the canvas for adding new containers. This control should always be “on top” so that elements dragged onto the canvas cannot hide the control. Once a container has been added to the canvas it can be clicked and dragged around the canvas just like toolbox elements.</li>
+  <li><strong>Properties Panel</strong> (optional): As with canvas items, when a container is selected an optional properties panel will appear on the right side of the canvas.</li>
+</ol>
 
           
         </div>

diff --git a/get-started/setup/index.html b/get-started/setup/index.html
@@ -246,7 +246,7 @@
 <div class="row">
   <div class="col-xs-12 col-sm-12 col-md-12">
     <h3>Step 3: Apply PatternFly in your project</h3>
-    <p>Now we can includ the necessary assets by directly specifying their path inside the node_modules folder.</p>
+    <p>Now we can include the necessary assets by directly specifying their path inside the node_modules folder.</p>
   </div>
   <div class="col-xs-12 col-sm-12 col-md-12">
     <pre class="prettyprint">
@@ -255,8 +255,8 @@
 &lt;html lang=&quot;en&quot;&gt;
 &lt;head&gt;
   &lt;meta charset=&quot;UTF-8&quot;&gt;
-  &lt;link rel=&quot;stylesheet&quot; type=&quot;text/css&quot; href=&quot;https://cdnjs.cloudflare.com/ajax/libs/patternfly/3.24.0/css/patternfly.min.css&quot;&gt;
-  &lt;link rel=&quot;stylesheet&quot; type=&quot;text/css&quot; href=&quot;https://cdnjs.cloudflare.com/ajax/libs/patternfly/3.24.0/css/patternfly-additions.min.css&quot;&gt;
+  &lt;link rel=&quot;stylesheet&quot; type=&quot;text/css&quot; href=&quot;/node_modules/patternfly/dist/css/patternfly.css&quot;&gt;
+  &lt;link rel=&quot;stylesheet&quot; type=&quot;text/css&quot; href=&quot;/node_modules/patternfly/dist/css/patternfly-additions.css&quot;&gt;
 &lt;/head&gt;
 &lt;body&gt;
   &lt;div class=&quot;container&quot;&gt;
@@ -269,9 +269,8 @@
 
   &lt;/div&gt;
 
-  &lt;script src=&quot;https://cdnjs.cloudflare.com/ajax/libs/jquery/3.2.1/jquery.min.js&quot;&gt;&lt;/script&gt;
-  &lt;script src=&quot;https://cdnjs.cloudflare.com/ajax/libs/twitter-bootstrap/3.3.7/js/bootstrap.min.js&quot;&gt;&lt;/script&gt;
-  &lt;script src=&quot;https://cdnjs.cloudflare.com/ajax/libs/patternfly/3.24.0/css/patternfly.min.css&quot;&gt;&lt;/script&gt;
+  &lt;script src=&quot;/node_modules/jquery/dist/jquery.js&quot;&gt;&lt;/script&gt;
+  &lt;script src=&quot;/node_modules/bootstrap/dist/js/bootstrap.js&quot;&gt;&lt;/script&gt;
 &lt;/body&gt;
 &lt;/html&gt;
 </code>

diff --git a/components/bootstrap-datepicker/dist/js/bootstrap-datepicker.js b/components/bootstrap-datepicker/dist/js/bootstrap-datepicker.js
@@ -1,5 +1,5 @@
 /*!
- * Datepicker for Bootstrap v1.7.0 (https://github.com/uxsolutions/bootstrap-datepicker)
+ * Datepicker for Bootstrap v1.7.1 (https://github.com/uxsolutions/bootstrap-datepicker)
  *
  * Licensed under the Apache License v2.0 (http://www.apache.org/licenses/LICENSE-2.0)
  */
@@ -1998,7 +1998,7 @@
 
 	/* DATEPICKER VERSION
 	 * =================== */
-	$.fn.datepicker.version = '1.7.0';
+	$.fn.datepicker.version = '1.7.1';
 
 	$.fn.datepicker.deprecated = function(msg){
 		var console = window.console;

diff --git a/components/bootstrap-datepicker/dist/css/bootstrap-datepicker.css b/components/bootstrap-datepicker/dist/css/bootstrap-datepicker.css
@@ -1,5 +1,5 @@
 /*!
- * Datepicker for Bootstrap v1.7.0 (https://github.com/uxsolutions/bootstrap-datepicker)
+ * Datepicker for Bootstrap v1.7.1 (https://github.com/uxsolutions/bootstrap-datepicker)
  *
  * Licensed under the Apache License v2.0 (http://www.apache.org/licenses/LICENSE-2.0)
  */

diff --git a/components/bootstrap-datepicker/dist/css/bootstrap-datepicker.min.css b/components/bootstrap-datepicker/dist/css/bootstrap-datepicker.min.css
@@ -1,5 +1,5 @@
 /*!
- * Datepicker for Bootstrap v1.7.0 (https://github.com/uxsolutions/bootstrap-datepicker)
+ * Datepicker for Bootstrap v1.7.1 (https://github.com/uxsolutions/bootstrap-datepicker)
  *
  * Licensed under the Apache License v2.0 (http://www.apache.org/licenses/LICENSE-2.0)
  */

diff --git a/components/bootstrap-datepicker/dist/css/bootstrap-datepicker.standalone.css b/components/bootstrap-datepicker/dist/css/bootstrap-datepicker.standalone.css
@@ -1,5 +1,5 @@
 /*!
- * Datepicker for Bootstrap v1.7.0 (https://github.com/uxsolutions/bootstrap-datepicker)
+ * Datepicker for Bootstrap v1.7.1 (https://github.com/uxsolutions/bootstrap-datepicker)
  *
  * Licensed under the Apache License v2.0 (http://www.apache.org/licenses/LICENSE-2.0)
  */

diff --git a/components/bootstrap-datepicker/dist/css/bootstrap-datepicker.standalone.min.css b/components/bootstrap-datepicker/dist/css/bootstrap-datepicker.standalone.min.css
@@ -1,5 +1,5 @@
 /*!
- * Datepicker for Bootstrap v1.7.0 (https://github.com/uxsolutions/bootstrap-datepicker)
+ * Datepicker for Bootstrap v1.7.1 (https://github.com/uxsolutions/bootstrap-datepicker)
  *
  * Licensed under the Apache License v2.0 (http://www.apache.org/licenses/LICENSE-2.0)
  */

diff --git a/components/bootstrap-datepicker/dist/css/bootstrap-datepicker3.css b/components/bootstrap-datepicker/dist/css/bootstrap-datepicker3.css
@@ -1,5 +1,5 @@
 /*!
- * Datepicker for Bootstrap v1.7.0 (https://github.com/uxsolutions/bootstrap-datepicker)
+ * Datepicker for Bootstrap v1.7.1 (https://github.com/uxsolutions/bootstrap-datepicker)
  *
  * Licensed under the Apache License v2.0 (http://www.apache.org/licenses/LICENSE-2.0)
  */

diff --git a/components/bootstrap-datepicker/dist/css/bootstrap-datepicker3.min.css b/components/bootstrap-datepicker/dist/css/bootstrap-datepicker3.min.css
@@ -1,5 +1,5 @@
 /*!
- * Datepicker for Bootstrap v1.7.0 (https://github.com/uxsolutions/bootstrap-datepicker)
+ * Datepicker for Bootstrap v1.7.1 (https://github.com/uxsolutions/bootstrap-datepicker)
  *
  * Licensed under the Apache License v2.0 (http://www.apache.org/licenses/LICENSE-2.0)
  */

diff --git a/components/bootstrap-datepicker/dist/css/bootstrap-datepicker3.standalone.css b/components/bootstrap-datepicker/dist/css/bootstrap-datepicker3.standalone.css
@@ -1,5 +1,5 @@
 /*!
- * Datepicker for Bootstrap v1.7.0 (https://github.com/uxsolutions/bootstrap-datepicker)
+ * Datepicker for Bootstrap v1.7.1 (https://github.com/uxsolutions/bootstrap-datepicker)
  *
  * Licensed under the Apache License v2.0 (http://www.apache.org/licenses/LICENSE-2.0)
  */

diff --git a/components/bootstrap-datepicker/dist/css/bootstrap-datepicker3.standalone.min.css b/components/bootstrap-datepicker/dist/css/bootstrap-datepicker3.standalone.min.css
@@ -1,5 +1,5 @@
 /*!
- * Datepicker for Bootstrap v1.7.0 (https://github.com/uxsolutions/bootstrap-datepicker)
+ * Datepicker for Bootstrap v1.7.1 (https://github.com/uxsolutions/bootstrap-datepicker)
  *
  * Licensed under the Apache License v2.0 (http://www.apache.org/licenses/LICENSE-2.0)
  */
